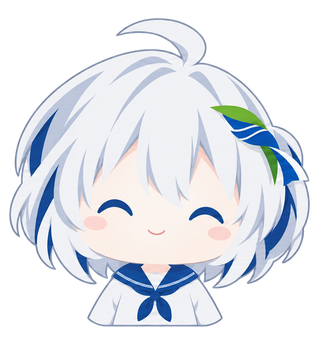
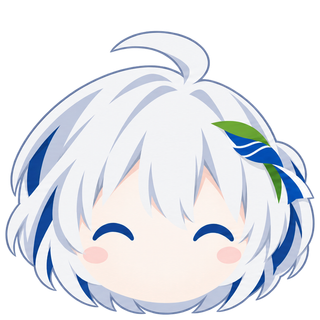
fix(assistant): restore the mouthless bot ball design

diff --git a/src/company-assistant.css b/src/company-assistant.css
@@ -31,9 +31,9 @@
   display: inline-block;
   flex-shrink: 0;
   width: 72px;
-  height: 76px;
+  height: 72px;
   pointer-events: none;
-  transform-origin: 50% 80%;
+  transform-origin: 50% 50%;
 }
 .assistant-character-visual {
   position: absolute;
@@ -52,8 +52,7 @@
 .assistant-character-idle {
   opacity: 1;
 }
-.assistant-character-happy,
-.assistant-character-wave {
+.assistant-character-happy {
   opacity: 0;
 }
 .assistant-character[data-happy='true'] .assistant-character-idle {
@@ -110,10 +109,6 @@
     animation: assistant-character-blink var(--character-idle-duration) step-end
       var(--character-idle-delay) infinite;
   }
-  .company-assistant-trigger[data-idle='true'] .assistant-character-wave {
-    animation: assistant-character-wave var(--character-idle-duration) step-end
-      var(--character-idle-delay) infinite;
-  }
   .company-assistant-trigger[data-idle='true']:is(:hover, :focus-visible, :active) *,
   .company-assistant-trigger[data-page-visible='false'] .assistant-character,
   .company-assistant-trigger[data-page-visible='false'] .assistant-character * {
@@ -125,34 +120,32 @@
   12%,
   44%,
   64%,
-  86%,
+  82%,
   100% {
-    transform: translateY(0) rotate(0);
+    transform: translateY(0) rotate(0) scale(1);
   }
   6%,
   35% {
-    transform: translateY(-2px) rotate(-1deg);
+    transform: translateY(-2px) rotate(-1deg) scale(1);
   }
   20%,
   54% {
-    transform: translateY(-1px) rotate(1deg);
+    transform: translateY(-1px) rotate(1deg) scale(1);
   }
-  70%,
+  68% {
+    transform: translateY(1px) rotate(0) scale(1.03, 0.97);
+  }
+  72% {
+    transform: translateY(-6px) rotate(2deg) scale(0.98, 1.02);
+  }
   76% {
-    transform: translateY(-1px) rotate(-2deg);
-  }
-  73%,
-  79% {
-    transform: translateY(-1px) rotate(2deg);
-  }
-  82% {
-    transform: translateY(0) rotate(0);
+    transform: translateY(1px) rotate(-1deg) scale(1.02, 0.98);
   }
 }
 @keyframes assistant-character-resting {
   0%,
   11%,
-  82%,
+  71%,
   100% {
     opacity: 1;
   }
@@ -164,19 +157,11 @@
 @keyframes assistant-character-blink {
   0%,
   11%,
+  71%,
   100% {
     opacity: 0;
   }
-  9% {
-    opacity: 1;
-  }
-}
-@keyframes assistant-character-wave {
-  0%,
-  82%,
-  100% {
-    opacity: 0;
-  }
+  9%,
   68% {
     opacity: 1;
   }
@@ -268,7 +253,7 @@
 }
 .company-assistant-welcome .assistant-character {
   width: 60px;
-  height: 68px;
+  height: 60px;
 }
 .company-assistant-welcome p {
   margin: 0;
@@ -491,7 +476,7 @@
   }
   .company-assistant-trigger > .assistant-character {
     width: 64px;
-    height: 68px;
+    height: 64px;
   }
   .company-assistant-panel {
     right: 16px;

diff --git a/src/AssistantCharacter.tsx b/src/AssistantCharacter.tsx
@@ -1,6 +1,5 @@
 import idleCharacter from './assets/assistant-character-idle.webp';
 import happyCharacter from './assets/assistant-character-happy.webp';
-import wavingCharacter from './assets/assistant-character-wave.webp';
 
 export function AssistantCharacter({ happy = false }: { happy?: boolean }) {
   return (
@@ -8,7 +7,6 @@ export function AssistantCharacter({ happy = false }: { happy?: boolean }) {
       <span className="assistant-character-visual">
         <img className="assistant-character-idle" src={idleCharacter} alt="" draggable={false} />
         <img className="assistant-character-happy" src={happyCharacter} alt="" draggable={false} />
-        <img className="assistant-character-wave" src={wavingCharacter} alt="" draggable={false} />
       </span>
     </span>
   );

diff --git a/AGENTS.md b/AGENTS.md
@@ -89,7 +89,7 @@ Competitive engineering is recorded in `docs/competitive-research/`: fixed SHAs,
 
 Broader public research uses `server/company-public-signals.ts`: at most six Eastmoney news pages, one Sina company catalog and three issuer-specific Guba pages, retaining up to 180 deduplicated news items and 240 public posts. Its 26-request ceiling includes at most eight news-body and eight post-body attempts and shares the research reader's budget; samples use recency, financial/operating topics and media/date variety, not a fabricated sentiment balance. Topic searches can read at most three pages of 30 results. Additional source reads accept only acquired IDs and fixed allowed hosts/paths; source text remains an excerpt, with hash and read time. Public posters are unverified opinions, media bodies remain research leads, and reposts are not independent corroboration. Preserve raw/accepted/unique/page/body/date/stop-reason coverage. Each public model payload includes news and discussion text once within a shared 140,000-character budget, with actual trimming, duplicates and omitted text reported. Counts and sentiment must not become confidence percentages or alter grades. `server/company-market-quote.ts` makes at most one public Eastmoney request, confirms the issuer code and uses source precision/timestamps; quote failures remain unavailable and never become zero or fake real-time values. These fixed-source tools do not implement whole-web or X search. Deep research has six planning turns / 24 tools / 72 shared public requests / 300 seconds, with 60 seconds per planning call. Broader-source synthesis has a separate 180-second phase / 90-second per-request deadline and at most three actual calls, including an optional repair and counterargument review; review failure retains only a previously validated draft with a warning. No artificial delays or model-reasoning claims. Keep initial context and industry budgets separate from deep research.
 
-The assistant character artwork lives in `src/assets/assistant-character-*.webp` and is rendered by `src/AssistantCharacter.tsx`. Preserve the user-provided white-haired, blue-eyed identity and the blue-green ornament on screen-right; never mirror the character. The trigger stays fixed while its closed-chat idle loop gently sways, blinks and shows a raised-hand greeting, pausing on hover, keyboard focus and page visibility changes. `CompanyAssistant` subscribes to `visibilitychange`; CSS handles motion without per-frame React updates. Its click animation opens the existing assistant immediately, respects reduced motion, and never submits a question. Preserve the native trigger, focus restoration, owner boundaries and actual request status.
+The assistant character artwork lives in `src/assets/assistant-character-*.webp` and is rendered by `src/AssistantCharacter.tsx`. The user-provided character is a mouthless Grok Bot ball: preserve its white hair, blue eyes, pink cheeks and blue-green ornament on screen-right; never add a mouth, nose, neck, clothing, body or limbs, and never mirror the character. Expressions use open or happy closed eyes. The trigger stays fixed while its closed-chat idle loop gently sways, blinks and bounces, pausing on hover, keyboard focus and page visibility changes. `CompanyAssistant` subscribes to `visibilitychange`; CSS handles motion without per-frame React updates. Its click animation opens the existing assistant immediately, respects reduced motion, and never submits a question. Preserve the native trigger, focus restoration, owner boundaries and actual request status.
 
 The shared finishing layer lives in `src/polish.css` and `src/Experience.tsx`. Command search (`src/CommandMenu.tsx`) filters account-local metadata; typing must not send model queries or expose a previous owner's records. Preserve keyboard focus, truthful loading/download states, paused success notices, dismissible persistent errors and system reduced-motion support. Avoid animated numeric counting on financial amounts.
 

diff --git a/README.md b/README.md
@@ -48,7 +48,7 @@ The [version-pinned competitive engineering record](docs/competitive-research/RE
 
 📰 **Source Reader** — Acquired news and public discussions retain local keyword, media and content-scope filters, date sorting and pagination, with the selected source text available on narrow screens. Titles, digests and retrieved excerpts remain distinct. Filtering saved sources makes no model or public-source request.
 
-🧭 **Research Entry and Questions** — The entry preserves the current owner's draft through navigation and confirms a matched issuer before starting saved research. Public company codes and short names match a preloaded directory; misses use bounded live search. Enter starts matching immediately, and ambiguous results retain a selection step. The lower-right Prispect assistant uses the user-provided white-haired character reference, with matching blue eyes and a blue-green hair ornament. Its fixed-position companion gently sways, blinks and occasionally greets with a raised hand while chat is closed. Idle motion pauses on hover or keyboard focus and while the page is hidden. Clicking opens chat immediately with a smile and a small nod; reduced motion keeps it still. It has one conversation for researched companies, product help and policy details. It resolves company context automatically, follows up with bounded public retrieval when needed, and cites actual company sources or canonical product documents. Visitor product questions search documents locally; company questions use only that visitor’s public research and may call the model. Account questions use the configured model. Failed calls retain truthful rule answers or document excerpts.
+🧭 **Research Entry and Questions** — The entry preserves the current owner's draft through navigation and confirms a matched issuer before starting saved research. Public company codes and short names match a preloaded directory; misses use bounded live search. Enter starts matching immediately, and ambiguous results retain a selection step. The lower-right Prispect assistant is the user-referenced mouthless Grok Bot ball, with white hair, blue eyes, pink cheeks and a blue-green hair ornament. Its fixed-position companion gently sways, blinks and bounces while chat is closed. Idle motion pauses on hover or keyboard focus and while the page is hidden. Clicking opens chat immediately with happy closed eyes and a gentle bounce; reduced motion keeps it still. It has one conversation for researched companies, product help and policy details. It resolves company context automatically, follows up with bounded public retrieval when needed, and cites actual company sources or canonical product documents. Visitor product questions search documents locally; company questions use only that visitor’s public research and may call the model. Account questions use the configured model. Failed calls retain truthful rule answers or document excerpts.
 
 🗂 **Original-Report Compatibility** — Requested original review retains the LangGraph workflow for official A-share annual reports, relevant notes and selected announcement originals. Rules extract amounts and preserve missing fields and conflicts; reviewed candidates become personal materials only after adoption. Default financial acquisition does not start this workflow or download PDFs; subsequent public AI research may use its separate bounded official-excerpt tool. See the [real-company algorithm regression record](docs/algorithm-verification-2026-10-02.md).
 

diff --git a/README.zh-Hans.md b/README.zh-Hans.md
@@ -48,7 +48,7 @@
 
 📰 **来源阅读** — 已取得的新闻和公开讨论保留本地关键词、媒体、内容范围筛选、日期排序和分页；窄屏仍可读取所选来源。标题、摘要与实际取得的正文节选分别标明。筛选已保存资料不调用模型或公开来源。
 
-🧭 **研究入口与问答** — 入口保留当前账号的输入草稿，确认匹配主体后创建研究。公开公司代码与简称通过预载目录快速匹配，未命中时有限远程补查；回车立即匹配，多个候选保留选择。右下角析光助手使用用户提供参考图中的白发拟人角色，保留蓝色眼睛与蓝绿发饰。入口固定在右下角，闲置时轻轻晃动、眨眼，偶尔举手打招呼；鼠标靠近、键盘聚焦或页面进入后台时暂停。点击时微笑并轻轻点头，立即打开聊天；减少动态效果时保持静止。它通过同一段对话回答已研究企业、产品使用和政策细节，自动接续企业上下文，按需补查公开资料，并引用实际企业来源或正式产品文档。访客的产品文档问题在本地检索；企业问题使用访客自己的公开研究，按需调用模型，不读取私人工作区。登录后的回答使用已配置模型，失败时保留真实规则回答或文档原文。
+🧭 **研究入口与问答** — 入口保留当前账号的输入草稿，确认匹配主体后创建研究。公开公司代码与简称通过预载目录快速匹配，未命中时有限远程补查；回车立即匹配，多个候选保留选择。右下角析光助手使用用户参考图中的无嘴 Grok Bot 球，保留白发、蓝色眼睛、粉色脸颊与蓝绿发饰。入口固定在右下角，闲置时轻轻晃动、眨眼和弹跳；鼠标靠近、键盘聚焦或页面进入后台时暂停。点击时开心地闭起眼睛、轻轻弹动，立即打开聊天；减少动态效果时保持静止。它通过同一段对话回答已研究企业、产品使用和政策细节，自动接续企业上下文，按需补查公开资料，并引用实际企业来源或正式产品文档。访客的产品文档问题在本地检索；企业问题使用访客自己的公开研究，按需调用模型，不读取私人工作区。登录后的回答使用已配置模型，失败时保留真实规则回答或文档原文。
 
 🗂 **原件核查兼容** — 明确进入原件核查时，仍可使用 LangGraph 核对官方 A 股年报、附注与选定公告原件。规则提取金额，保留缺失与冲突；候选经确认采用后才成为个人材料。默认财务取数不启动这一流程或下载 PDF；后续公开 AI 研究可使用独立的有限官方摘录工具。参见[真实公司算法回归记录](docs/algorithm-verification-2026-10-02.md)。
 

diff --git a/docs/sources.md b/docs/sources.md
@@ -44,7 +44,7 @@
 
 公司／团队名为析光，产品名为析光 / Prispect。产品采用原创几何标识，不声称名称、视觉元素或会计方法全球首创，也未进行商标可用性审查。图表由实际任务数值绘制；没有装饰性假数据或虚构客户标识。
 
-右下角助手的白发拟人角色以用户提供的参考图为形象来源，保留蓝色眼睛、粉色脸颊和蓝绿发饰。Image Gen 基于该图补出简洁半身造型及睁眼、笑眼、举手三种姿态，再提取主体、对齐并压缩为透明 WebP。参考角色的原作者权利保留，项目许可不改授该角色的第三方权利。角色只提供闲置动作、点击反馈和聊天入口，不表示资料查阅或回答已经成功。
+右下角助手以用户提供的参考图和无嘴 Grok Bot 球设定为形象来源，保留白发、蓝色眼睛、粉色脸颊和右侧蓝绿发饰。Image Gen 生成只有圆球头部的睁眼、开心闭眼两种状态，不添加嘴巴、鼻子、身体或四肢，再提取主体、对齐并压缩为透明 WebP。参考角色的原作者权利保留，项目许可不改授该角色的第三方权利。角色只提供闲置动作、点击反馈和聊天入口，不表示资料查阅或回答已经成功。
 
 界面截图必须来自可运行产品，演示视频是实际操作录制或其剪辑，不以回放标称实时模型执行。原文财报图像如用于核验仅本机保存；路演展示以事实数值与必要短摘录及原件链接为主。
 
